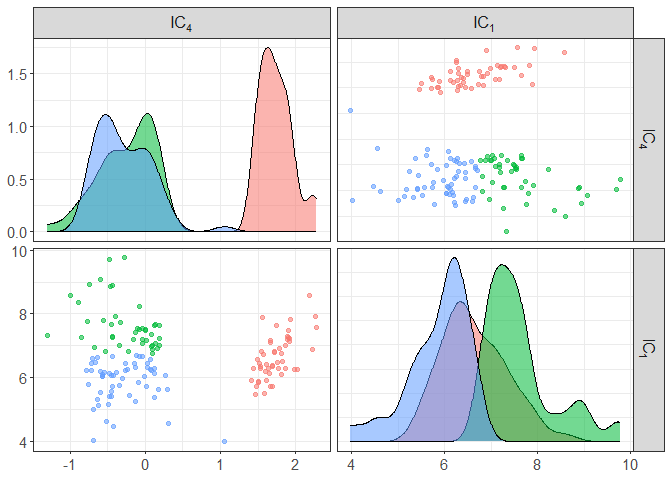
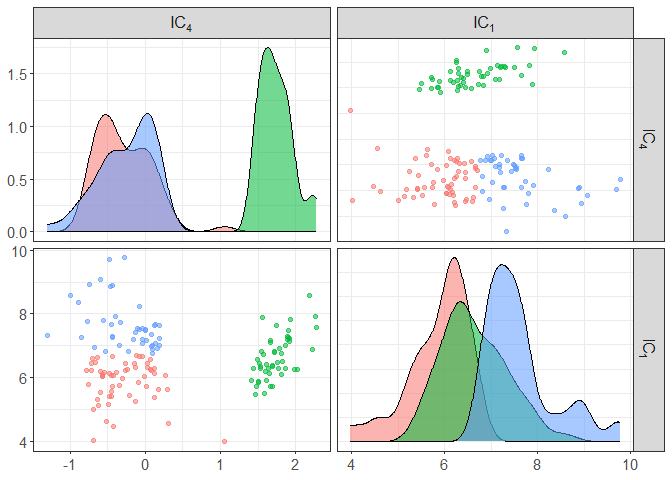
update of readme

diff --git a/README.md b/README.md
@@ -8,7 +8,8 @@
 [![R-CMD-check](https://github.com/AuroreAA/ICSClust/actions/workflows/R-CMD-check.yaml/badge.svg)](https://github.com/AuroreAA/ICSClust/actions/workflows/R-CMD-check.yaml)
 <!-- badges: end -->
 
-The goal of ICSClust is to …
+The goal of `ICSClust` is to perform tandem clustering with invariant
+coordinate selection.
 
 ## Installation
 
@@ -52,14 +53,14 @@ ICS_out
 #> IC.3      3.05683     -2.2269      -1.6354      0.3654
 #> IC.4      0.05244      0.6032      -0.3483     -0.3798
 
-# screeplot
-scree_plot(ICS_out)
+# Pot of generalized eigenvalues
+select_plot(ICS_out)
 ```
 
 <img src="man/figuICS_out/README-example-1.png" width="100%" />
 
 ``` r
-scree_plot(ICS_out, type = "lines")
+select_plot(ICS_out, type = "lines")
 ```
 
 <img src="man/figuICS_out/README-example-2.png" width="100%" />
@@ -116,9 +117,9 @@ ICS_out <- ICSClust(X, nb_select = 2, nb_clusters = 3)
 table(ICS_out$clusters, iris[,5])
 #>    
 #>     setosa versicolor virginica
-#>   1     49          0         0
-#>   2      0         25        19
-#>   3      1         25        31
+#>   1      1         25        31
+#>   2     49          0         0
+#>   3      0         25        19
 component_plot(ICS_out$ICS_out, select = ICS_out$select, clusters = as.factor(ICS_out$clusters))
 ```
 
@@ -133,9 +134,9 @@ ICS_out <- ICSClust(X, nb_select = 1, nb_clusters = 3,
 table(ICS_out$clusters, iris[,5])
 #>    
 #>     setosa versicolor virginica
-#>   1     50          0         0
-#>   2      0         45        27
-#>   3      0          5        23
+#>   1      0          5        26
+#>   2      0         45        24
+#>   3     50          0         0
 component_plot(ICS_out$ICS_out, clusters = as.factor(ICS_out$clusters))
 ```
 
